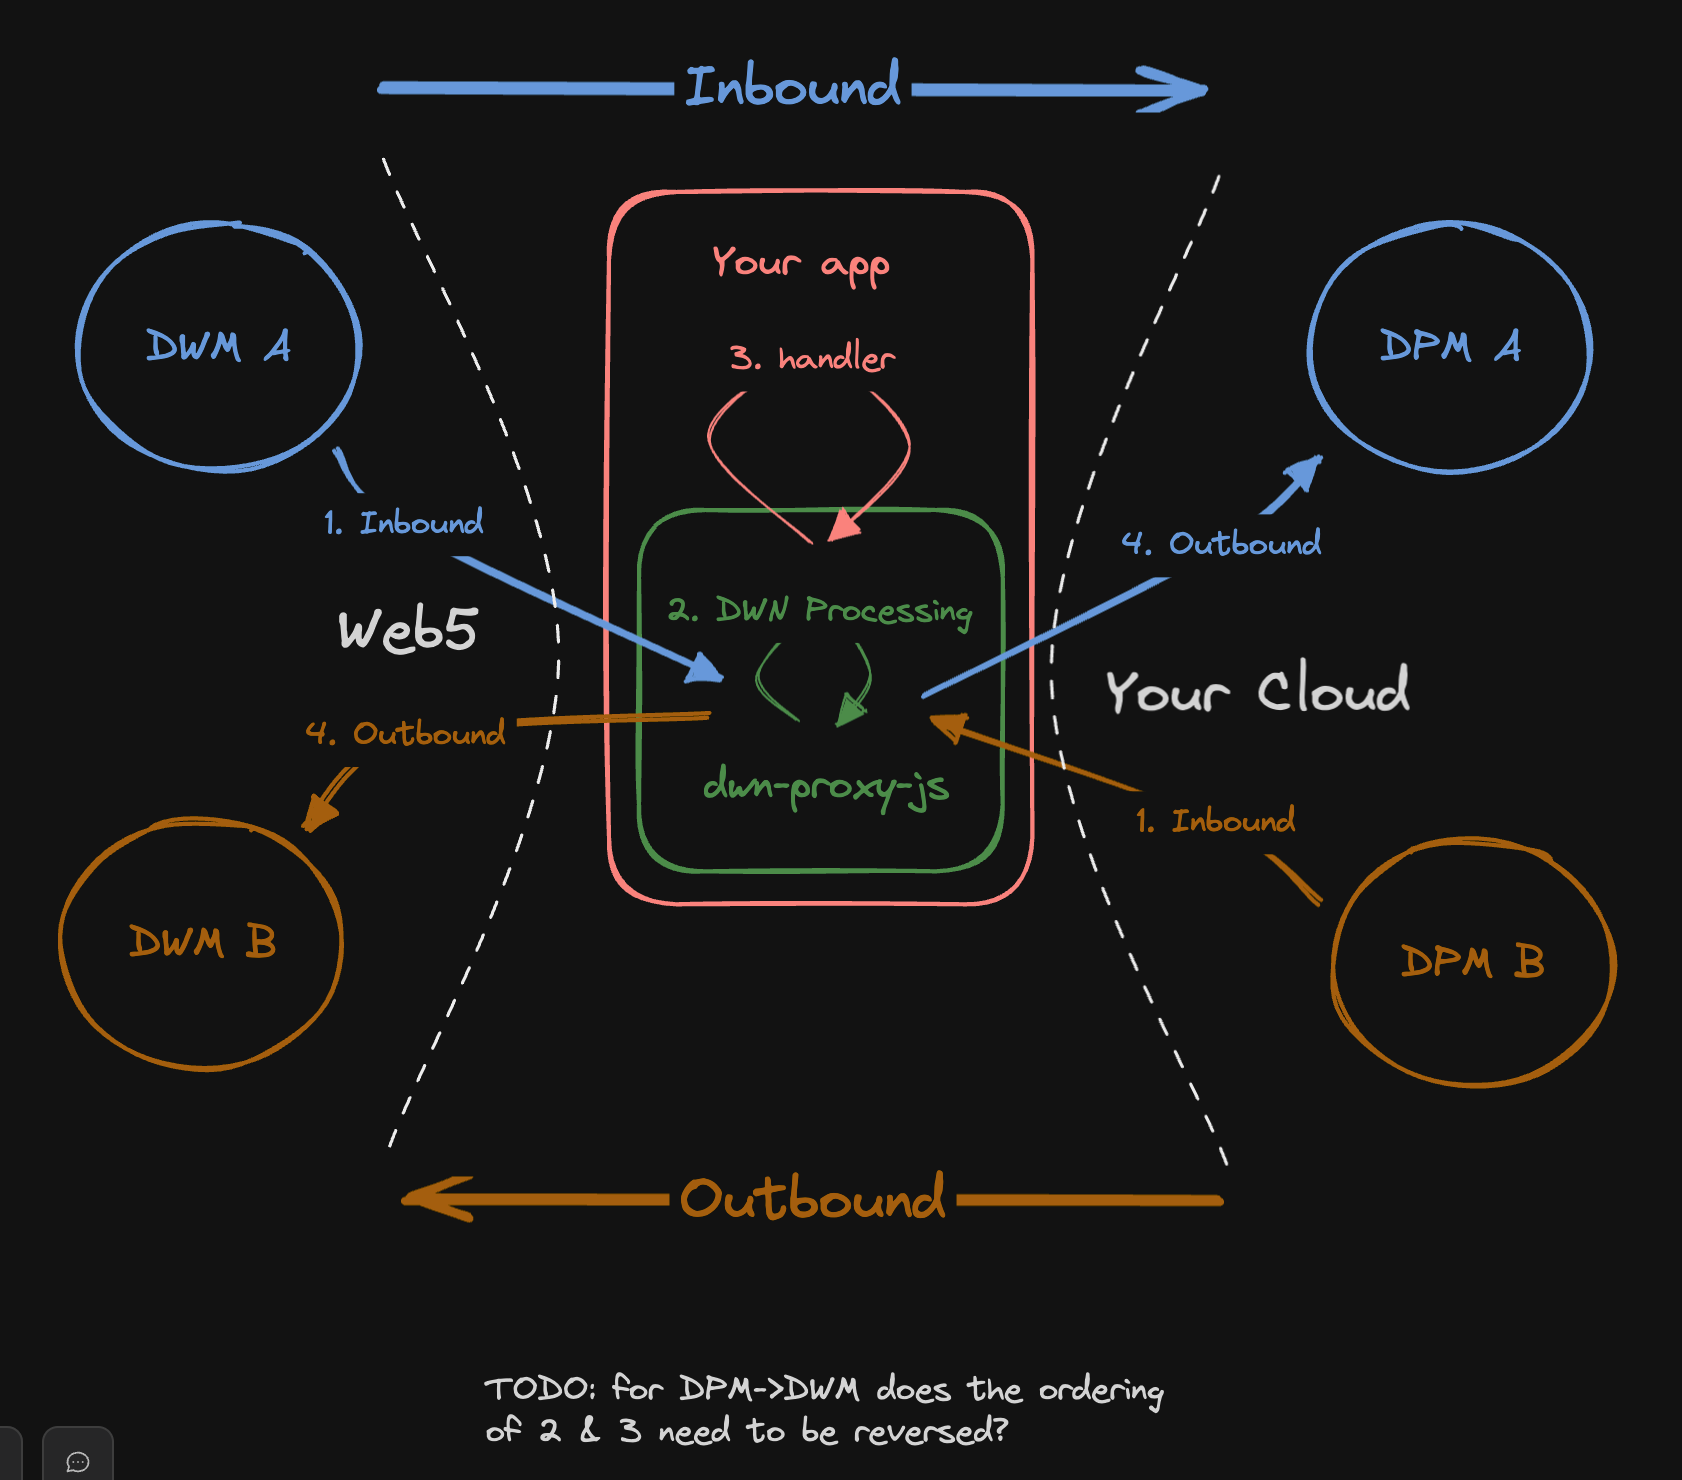
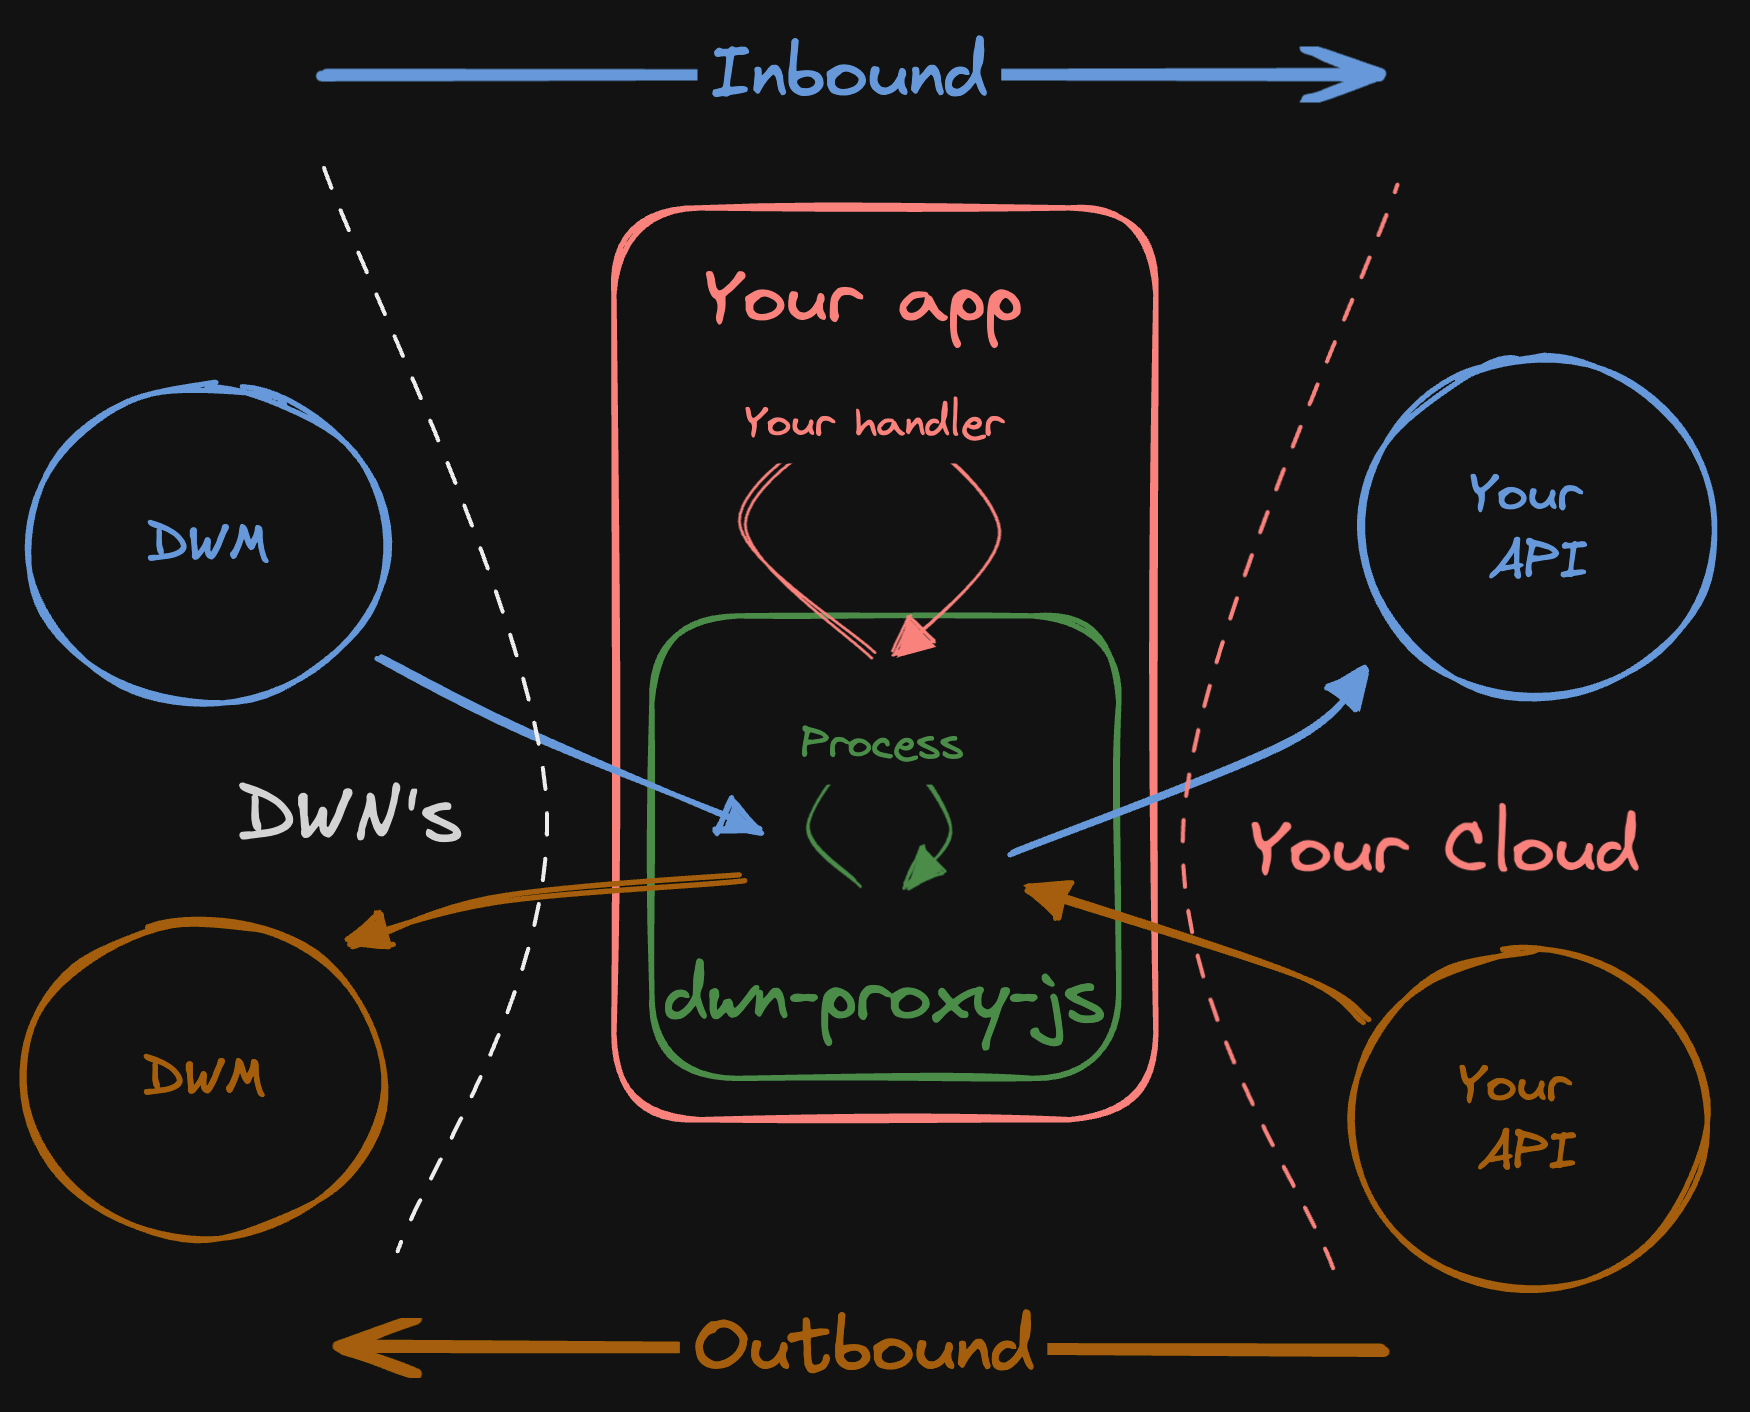
README design things

diff --git a/README.md b/README.md
@@ -4,85 +4,27 @@ Making DWN integrations with traditional backend services easy.
 
 ⚠ UNDER DEVELOPMENT ⚠
 
-`dwn-proxy-js` is a bidirectional proxy between [DWN Messages](https://identity.foundation/decentralized-web-node/spec/#messages) (a.k.a DWeb Messages or DWM's) and RESTful APIs.
+`dwn-proxy-js` is a bidirectional proxy between [Decentralized Web Nodes](https://identity.foundation/decentralized-web-node/spec) and your web API.
 
 ![Intro diagram](./images/intro-diagram.png)
 
-TODO: change `HTTP A` to `DPH A`
+The primary motivation behind this package is to streamline the ability for traditional back-end services that expose web APIs to receive & send DWN messages (a.k.a DWeb Messages or a.k.a DWM's). The default behavior of this package is designed to prevent the leakage of DWN awareness or concepts into a downstream service.
 
-The intended usage of this package is to translate between DWM's and HTTP requests. 
+## Process
 
-...or is it...
+- Message validation
+- DWM authorization
+- other things???
 
-The intended usage of this package is to be a fully-compliant [Decentralized Web Node (DWN)](https://identity.foundation/decentralized-web-node/spec), served over an HTTP interface, with a single-tenant DID owner-operator, and bidirectionally accept & send communications between DWN users and traditional backend services.
+## TODO design considerations
 
-...or is it...
+Two separate HTTP servers, with distinct port-bindings, one for inbound and the other for outbound. Therefore, network security topology can be configured distinctly. TODO is this truly necessary???
 
-The intended usage of this package is to host a server, interfaced via HTTP (& eventually WebSockets?), which receives either [DWN Messages](https://identity.foundation/decentralized-web-node/spec/#messages) or classic HTTP RESTful requests, offer a programmatic handler, and subsequently forward the communication to the appropriate destination.
+For inbound, `Process` occurs first then `Your handler` second. Four outbound, the inverse, `Your handler` occurs first then `Process` second.
 
-...or is it...
+Sequence diagram?
 
-The intended usage of this package is to host an HTTP (& WebSockets) server, which...
-1. Receive DWN-compatible communication: either [DWN Messages](https://identity.foundation/decentralized-web-node/spec/#messages) or [dwn-proxy-js formatted HTTP requests](#http-structure)
-2. Perform validation
-3. Call developer-defined handler (i.e. an authentication handler)
-4. Forward the communication onto the desired destination
-
-This package makes no prescriptions on...
-- Authorization
-- DWN rule-following
-- other things...?
-
-Basically, it starts up an HTTP server, accepts requests which are intended to be DWM-compatible, performs a validation check on the data, offers a programmatic handler/callback, and then formats & forwards it on.
-
-...or is it...
-
-Developer defines a filter, which filters data from DWN-to-HTTP, and vice versa would add the necessary fields when going from HTTP-to-DWN.
-
-
-# dwn-proxy-js HTTP Structure (DPH???)
-
-TODO... these are requests on the right-hand-side
-
----
-
-
-...???The primary intent of `dwm-proxy-js` is to be a translational layer between the DWN Message data structure and classic RESTful HTTP data structures. However, there are additional layers of functionality offered such 
-
-
----
-
-`dwn-proxy` is a bidirectional JSON-RPC proxy between [DWN Messages](https://identity.foundation/decentralized-web-node/spec/#messages) and traditional RESTful APIs.
-
-The primary motivation behind this package is to streamline the ability for traditional back-end services that expose RESTful APIs to receive & send DWN messages (a.k.a DWeb Messages or a.k.a DWM's). The default behavior of this package is designed to prevent the leakage of DWN awareness or concepts into a downstream service.
-
-TODO
-- single-tenant
-  - implies private key management
-- maybe "handler" instead of "router"
-- config file rather than code?
-  - would be useful for non-js devs, if they wanted to use it as a distributable
-  - why not both?
-- auth
-  - both inbound (handled by DWN default behavior?)
-  - and outbound 
-- is this a fully-compliant DWN or is it simply a pass-thru?
-  - why not both?
-- make JSON-RPC optional -- 2nd class, it's a supported format, but not enforced
-
-
-There are actually two different approaches here
-1. the package runs the actual servers
-2. the package is merely a translational layer
-...in both approaches, you could imagine the package still executes any dwn-specific processing (such as auth)
-
-
-TODO: take more things from https://github.com/TBD54566975/dwn-relay/blob/main/docs/design-doc.md
-
-TODO
-```cli
-npm install @tbd54566975/dwn-proxy@0.0.1
-```
+Single-tenant DID owner-operator. Meaning, inbound authorization is performed. 
 
 ```mermaid
 sequenceDiagram
@@ -99,6 +41,25 @@ sequenceDiagram
   S->>R: HTTP Response
   R->>R: DWM'ify Response
   R->>C: DWMified response
+```
+
+# dwn-proxy-js Message (DPM)
+
+TODO... these are requests on the right-hand-side
+
+```json
+{
+  // what's the structure here?
+}
+```
+
+---
+
+TODO: take more things from https://github.com/TBD54566975/dwn-relay/blob/main/docs/design-doc.md
+
+TODO
+```cli
+npm install @tbd54566975/dwn-proxy@0.0.1
 ```
 
 ## Project Resources
